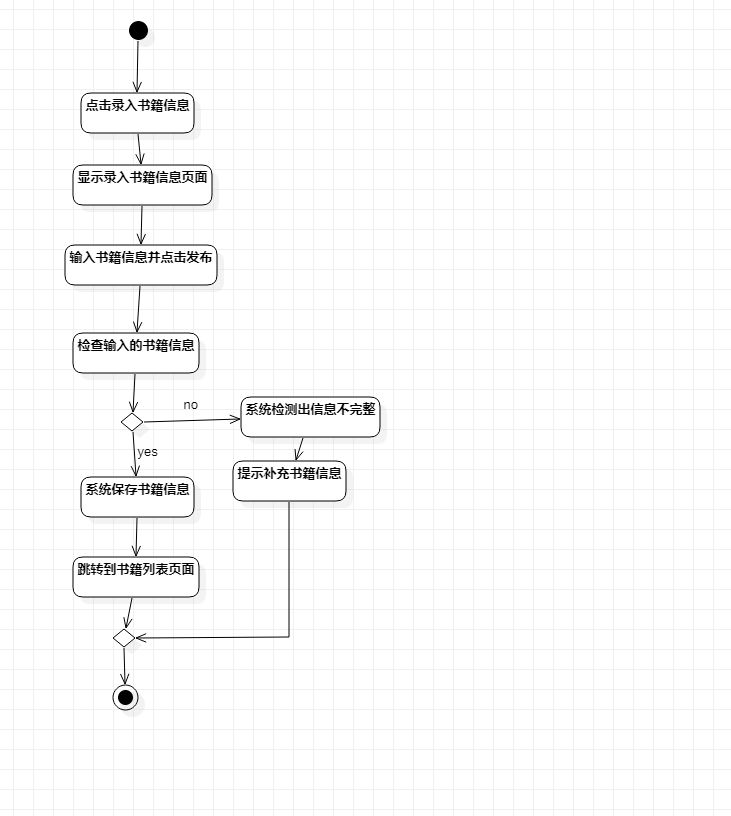
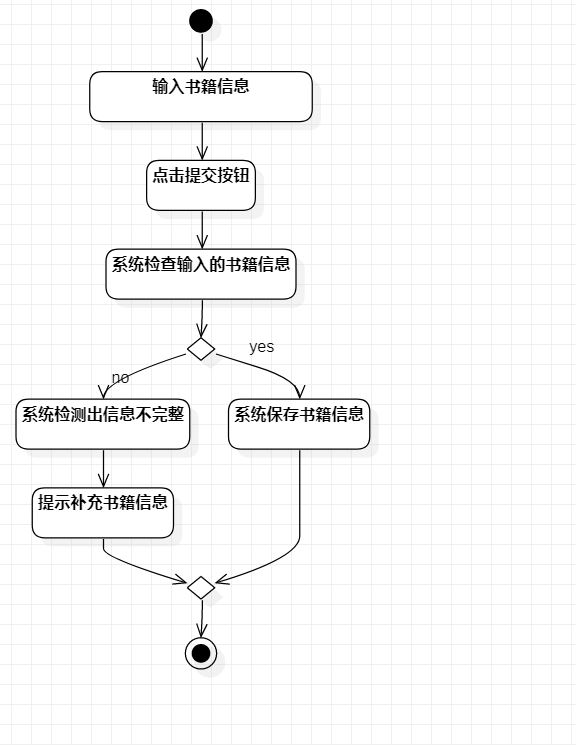
update lab2、lab3

diff --git a/students/1714080902231/lab2.md b/students/1714080902231/lab2.md
@@ -62,15 +62,14 @@
 | 用例编号 | UC01                                                         | 备注         |
 | :------- | :----------------------------------------------------------- | :----------- |
 | 用例名称 | 录入书籍信息                                                 |              |
-| 前置条件 | 管理员已登录                                                 |              |
+| 前置条件 | 管理员已在录入书籍信息页面                                   |              |
 | 后置条件 | 系统已保存书籍信息                                           | 必要         |
-| 基本流程 | 1.管理员点击录入书籍信息按钮                                 |              |
-| ~        | 2.系统跳转录入书籍信息页面                                   |              |
-| ~        | 3.管理员输入书籍信息后点击发布按钮                           |              |
-| ~        | 4.系统检查必要信息已全部填写，保存书籍信息                   |              |
-| ~        | 5.系统跳转到书籍列表页面                                     |              |
-| 扩展流程 | 4.1 系统检查发现书籍缺少必要信息，提示“必要信息没有填写完整” | 录入书籍失败 |
-|          | 4.2系统返回录入书籍页面，提示"请补充书籍信息"                |              |
+| 基本流程 | 1.管理员输入书籍信息                                         |              |
+| ~        | 2.点击发布按钮                                               |              |
+| ~        | 3.系统检查必要信息已全部填写                                 |              |
+| ~        | 4.保存书籍信息                                               |              |
+| 扩展流程 | 3.1 系统检查发现书籍缺少必要信息，提示“必要信息没有填写完整” | 录入书籍失败 |
+|          | 3.2系统提示"请补充书籍信息"                                  |              |
 
 
 
@@ -88,16 +87,14 @@
 
 ## 表2：用户对书籍评分用例规约
 
-| 用例编号 | UC02                                                         | 备注         |
-| :------- | :----------------------------------------------------------- | :----------- |
-| 用例名称 | 评价书籍                                                     |              |
-| 前置条件 | 用户已在书籍详情页                                           |              |
-| 后置条件 |                                                              |              |
-| 基本流程 | 1.用户点击书籍评分按钮                                       |              |
-| ~        | 2.系统弹出书籍评分窗口                                       |              |
-| ~        | 3.用户对在评分窗口输入评语并点亮评分的星星。                 |              |
-| ~        | 4.系统检查星星数量是否符合要求，若符合则保存评语与星星数量。 |              |
-| ~        | 5.系统跳转书籍详情页                                         |              |
-| 扩展流程 | 4.1 系统检查发现星星数量少于1，提示“最低评分为1星”           | 评价书籍失败 |
-|          | 1.1 用户未登录，提示“用户未登录”                             |              |
+| 用例编号 | UC02                                               | 备注         |
+| :------- | :------------------------------------------------- | :----------- |
+| 用例名称 | 评价书籍                                           |              |
+| 前置条件 | 用户已在书籍评分页面                               |              |
+| 后置条件 |                                                    |              |
+| 基本流程 | 1.用户输入评语                                     |              |
+| ~        | 2.用户点亮评分的星星。                             |              |
+| ~        | 3.系统检查星星数量是否符合要求                     |              |
+| ~        | 4.保存书籍评价                                     |              |
+| 扩展流程 | 3.1 系统检查发现星星数量少于1，提示“最低评分为1星” | 评价书籍失败 |
 
